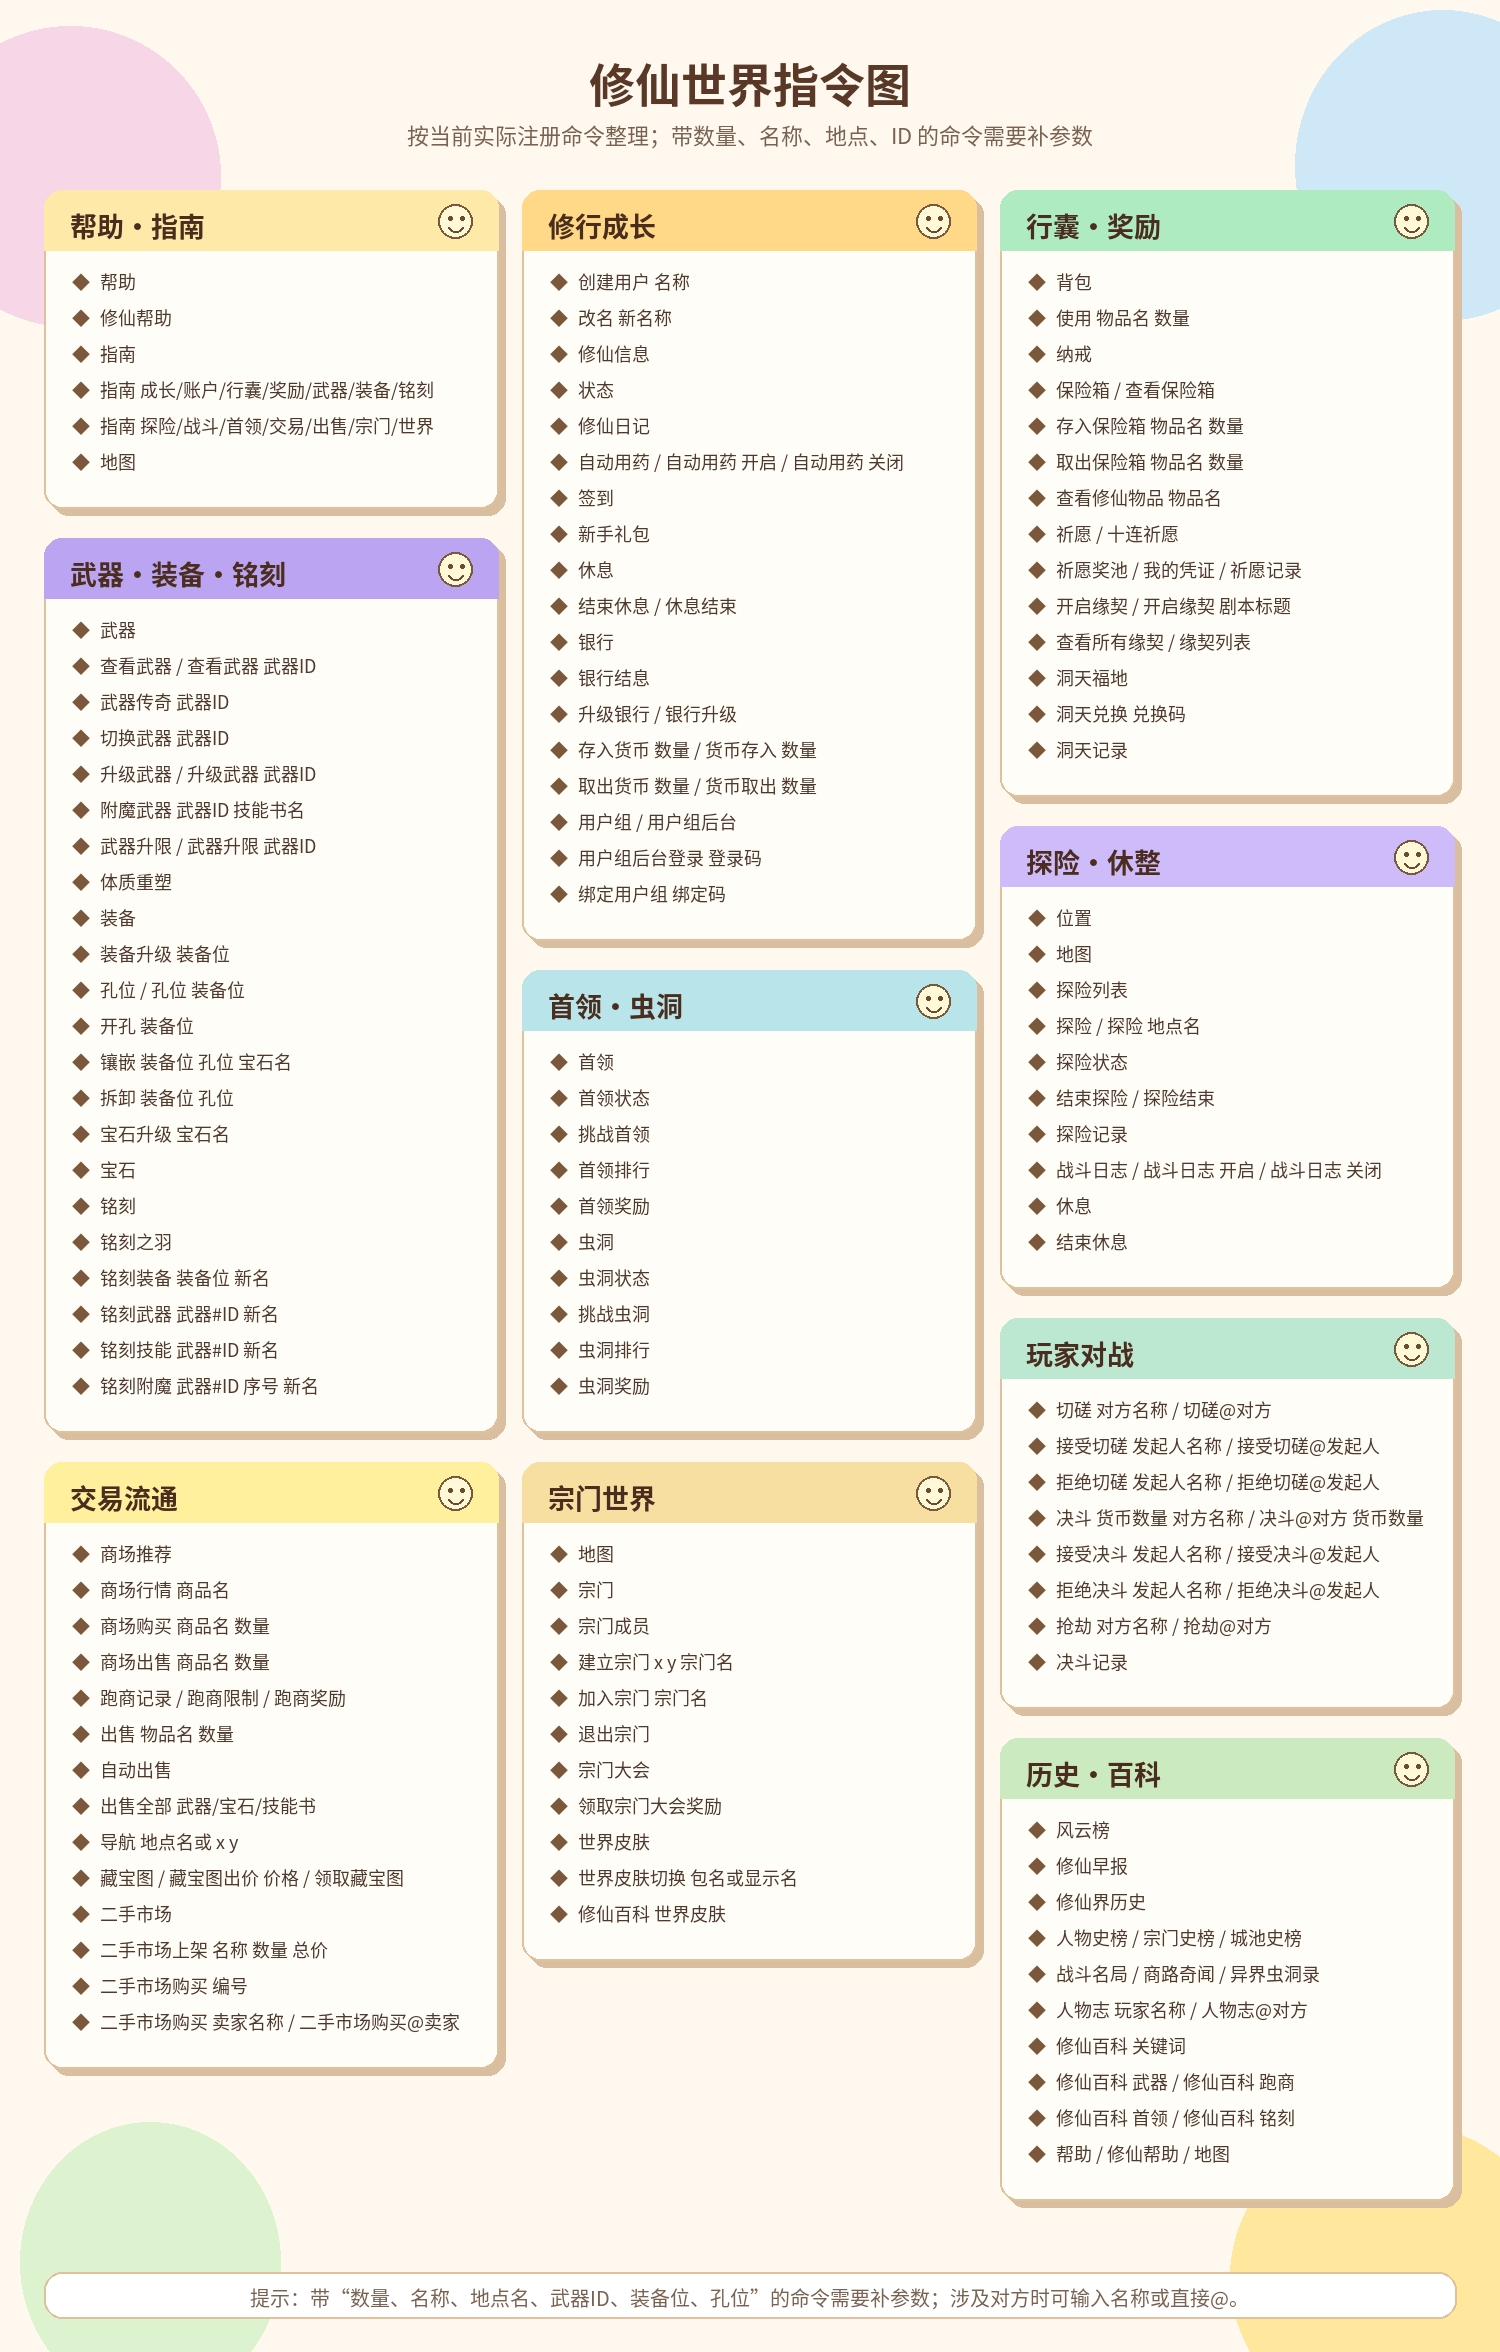
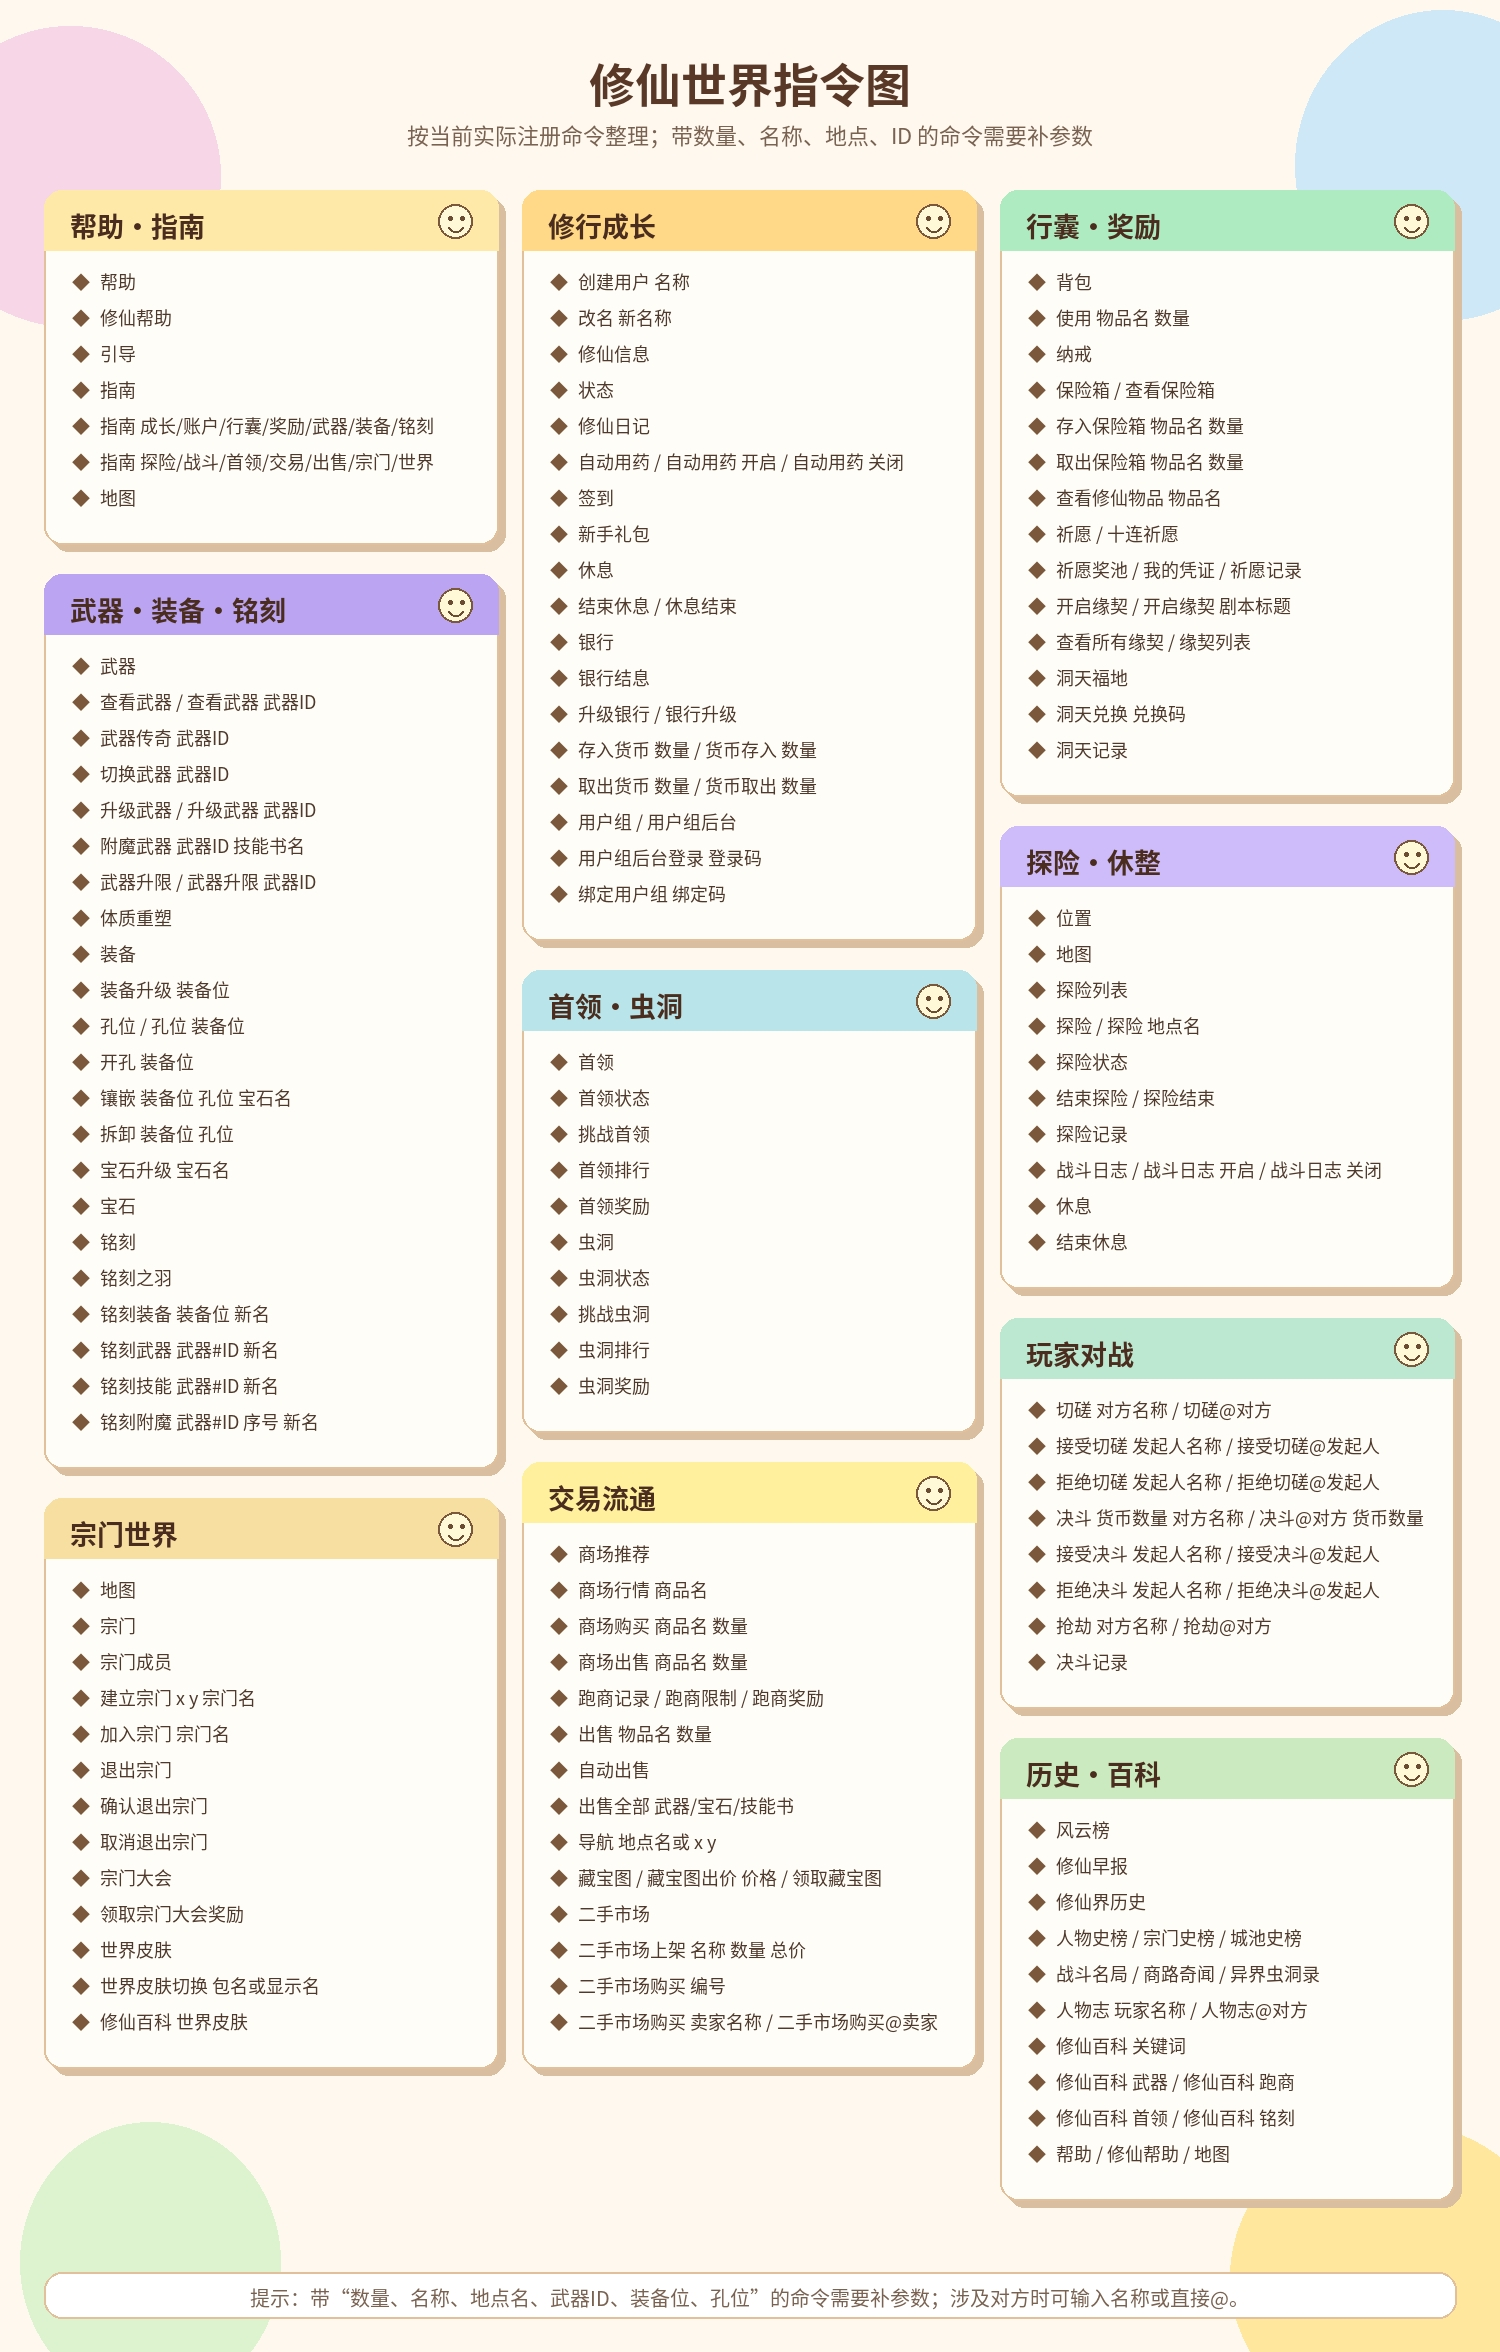
1

diff --git a/xiuxianserver/test/修仙_markdown按钮测试.py b/xiuxianserver/test/修仙_markdown按钮测试.py
@@ -867,8 +867,7 @@ def test_daily_guide_uses_inline_command_links() -> None:
     assert "[领奖](mqqapi://aio/inlinecmd?" in text
     assert "command=%E9%A2%86%E5%8F%96%E5%AE%97%E9%97%A8%E5%A4%A7%E4%BC%9A%E5%A5%96%E5%8A%B1" in text
     payload = markdown_message_from_text(text)
-    assert payload is not None
-    assert "keyboard" not in payload["message"]
+    assert payload is None
 
 
 def test_web_help_uses_hidden_web_links() -> None: